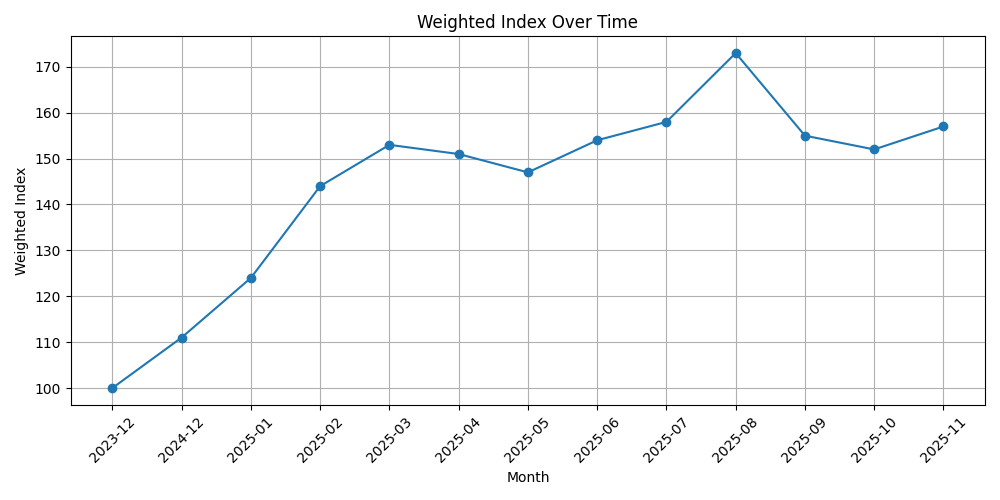
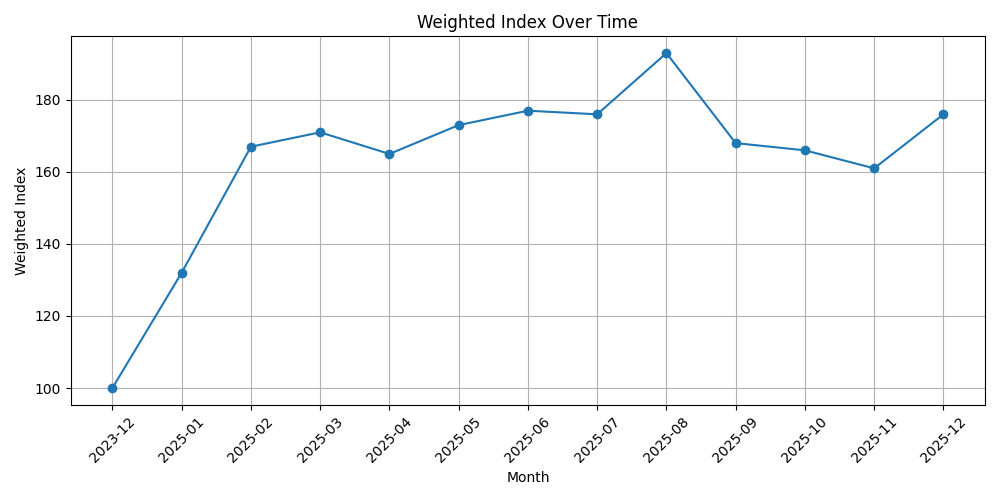
updates

diff --git a/data/hackernews/fetch.py b/data/hackernews/fetch.py
@@ -1,5 +1,6 @@
 import requests
 import pandas as pd
+import re
 from collections import defaultdict
 from datetime import datetime
 
@@ -9,6 +10,17 @@ QUERY = "mariadb"
 
 # Store results
 monthly_mentions = defaultdict(int)
+
+def contains_mariadb(item):
+    """Check if 'mariadb' appears as a word in title, url, or story_text"""
+    # Combine all text fields
+    text = ' '.join([
+        item.get('title') or '',
+        item.get('url') or '',
+        item.get('story_text') or ''
+    ]).lower()
+    # Match 'mariadb' as a word (not part of another word)
+    return bool(re.search(r'\bmariadb\b', text))
 
 page = 0
 while True:
@@ -21,6 +33,8 @@ while True:
             break
         
         for item in data["hits"]:
+            if not contains_mariadb(item):
+                continue
             created_at = item.get("created_at")
             if created_at:
                 try:

diff --git a/index/create_index.py b/index/create_index.py
@@ -28,7 +28,11 @@ baseline_date = '2023-12'
 for column in combined_data.columns:
     if column != 'month':
         baseline_value = combined_data[combined_data['month'] == baseline_date][column].iloc[0]
-        combined_data[f'{column}_index'] = combined_data[column] / baseline_value * 100
+        if baseline_value == 0:
+            # If baseline is 0, use 100 as index when current value is also 0, otherwise use the raw value
+            combined_data[f'{column}_index'] = combined_data[column].apply(lambda x: 100 if x == 0 else x * 100)
+        else:
+            combined_data[f'{column}_index'] = combined_data[column] / baseline_value * 100
 
 # 4. Calculate the weighted index by multiplying each index column by its weight and summing the results
 weights_sum = weights['weight'].sum()
